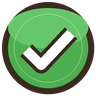
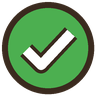
chore: 레벨 선택 V 표시를 레벨 그림 아래 가운데로, 임시 그림의 연두색 타원 삭제
- Icon_LevelComplete.png를 같은 파일로 다시 그려 위쪽 밝은 연두색 타원을 뺌(GUID 유지)
- Image_Complete 5개를 앵커 (0.5,0)·피벗 (0.5,1)·위치 (0,0)으로 — 윗변을 버튼 영역 아래 끝에 맞춰 레벨 그림과 겹치지 않게
- CHANGELOG·TODO·HANDOFF 갱신

diff --git a/docs/agents/HANDOFF.md b/docs/agents/HANDOFF.md
@@ -4,6 +4,12 @@ Claude가 Antigravity(agy)와 리뷰 서브에이전트에 맡긴 검증 기록.
 
 ---
 
+### [2026-10-28 14:17] Claude → Antigravity · V 표시 그림·자리 조정 (chore/level-complete-icon)
+- 요청: 임시 V 그림 위쪽 연두색 타원 빼기, V를 레벨 그림 아래 가운데로 — 그림과 겹치지 않게.
+- 변경: Icon_LevelComplete.png를 같은 파일로 다시 그림(GUID 유지), 2_Story Image_Complete 5개를 앵커 (0.5,0)·피벗 (0.5,1)·위치 (0,0)으로(윗변 = 버튼 영역 아래 끝, 레벨 그림 아래 투명 여백 8~25px라 어느 레벨도 안 겹침).
+- Claude 확인: GUID·스프라이트 연결 5/5, Play 모드에서 모든 레벨 V를 켜고 화면 캡처 — 다섯 개 모두 그림 아래 가운데, 아래 줄 별과 약 11px 떨어짐.
+- agy (gemini-4-argon-high, 1묶음): 씬 값(5개 동일·다른 값 그대로)·meta GUID·콘솔 → 통과.
+
 ### [2026-10-28 14:10] Claude → Antigravity + 서브에이전트 · 힌트 창 레벨3·4·5 레퍼런스 맞추기 (feat/hint-level3-5-ref)
 - 요청: Ref3·4·5와 같은 화면으로(레벨3은 문구 위치·테두리 상자·물 위 파란 줄), 레벨4는 새 밤 건물 그림, 넣은 리소스는 영어 이름으로. 작업 중 요청: 없는 리소스는 달라고 할 것 → 전구·파란 줄·레벨5 새 연구소 그림을 사용자가 추가.
 - 변경: 3_Game HintPanel의 Level3·4·5Panel에 Image_TextBox(Hint_TextBox 9-slice) 추가 후 Text_Rule을 그 아래로(레벨5는 새 Text_Rule), 레벨3 Image_WaterLine 2개·Image_Dam 74.5px 아래로·'수위'·Text_Meter 위치와 글자, 레벨4 합성 Image_PowerPlant를 지우고 전선 2·밤 건물 3·전구 이미지와 TMP 라벨 3개로, 레벨5 Image_Lab 1039×579. 03_HydroData hintRuleFormat의 [{0}] → {0}. 리소스는 Assets/UI/3_Game/Hint_* 로 옮겨 이름 변경, Hint_Level5_Lab.png는 내용만 덮어써 GUID 유지, 옛 Hint_Level4_PowerPlant.png 삭제, Ref 이미지는 드라이브 references로.

diff --git a/TODO.md b/TODO.md
@@ -21,6 +21,8 @@
 
 ## 완료
 
+- [x] 레벨 선택 화면 V 표시 — 임시 그림 위쪽 연두색 타원 빼기(같은 파일로 다시 그려 GUID 유지), 자리를 별 오른쪽에서 레벨 그림 아래 가운데(그림과 겹치지 않게)로 — Play 모드 화면 캡처로 확인 — 담당: Claude / 검증: Antigravity (2026-10-28)
+
 - [x] 힌트 창 레벨3 문구 상자가 높이 '10m'일 때 오른쪽 여백이 없던 것 수정 — 상자 왼쪽 끝을 고정하고 HorizontalLayoutGroup(여백 24·23)·ContentSizeFitter로 글자 폭에 맞춰 늘어나게(1m는 Ref와 같은 550px, 10m는 573px), 레벨5 문구 '함수 사용하기 힌트' → '함수 실행하기 힌트' — PlayMode 252/252, 1m·10m 렌더 확인 — 담당: Claude / 검증: Antigravity (2026-10-28)
 - [x] 게임 화면 힌트 창 레벨3·4·5를 레퍼런스(Ref3·4·5)와 같게 — 규칙 문구 테두리 상자(Hint_TextBox 9-slice, 글자 32·자간 5), 레벨3 수위 파란 줄 2개·댐 그림 74.5px 아래로·'수위'·높이 글자 위치, 03_HydroData hintRuleFormat 대괄호 삭제, 레벨4 합성 그림을 밤 건물·전선·전구 이미지와 TMP 라벨로 나눔(옛 Hint_Level4_PowerPlant.png 삭제, Ref4의 '흑백에 불' 메모는 뺌), 레벨5 연구소 그림을 사용자가 준 새 그림으로 덮어씀(GUID 유지), 넣은 리소스는 Assets/UI/3_Game/Hint_* 영어 이름으로, 레퍼런스 이미지는 드라이브 ProjectFiles/DG_AI_Zone1/references로 — PlayMode 252/252, 씬 렌더를 레퍼런스와 겹쳐 비교(글자 1px 안) — 담당: Claude / 검증: Antigravity + 서브에이전트 (2026-10-28)
 

diff --git a/CHANGELOG.md b/CHANGELOG.md
@@ -6,6 +6,9 @@
 
 ## [Unreleased]
 
+### Changed
+- 레벨 선택 화면의 V 표시를 별 오른쪽에서 레벨 그림 아래 가운데(그림과 겹치지 않게)로 옮기고, 임시 그림 위쪽의 밝은 연두색 타원을 뺌.
+
 ## [2026-10-28]
 
 ### Added
